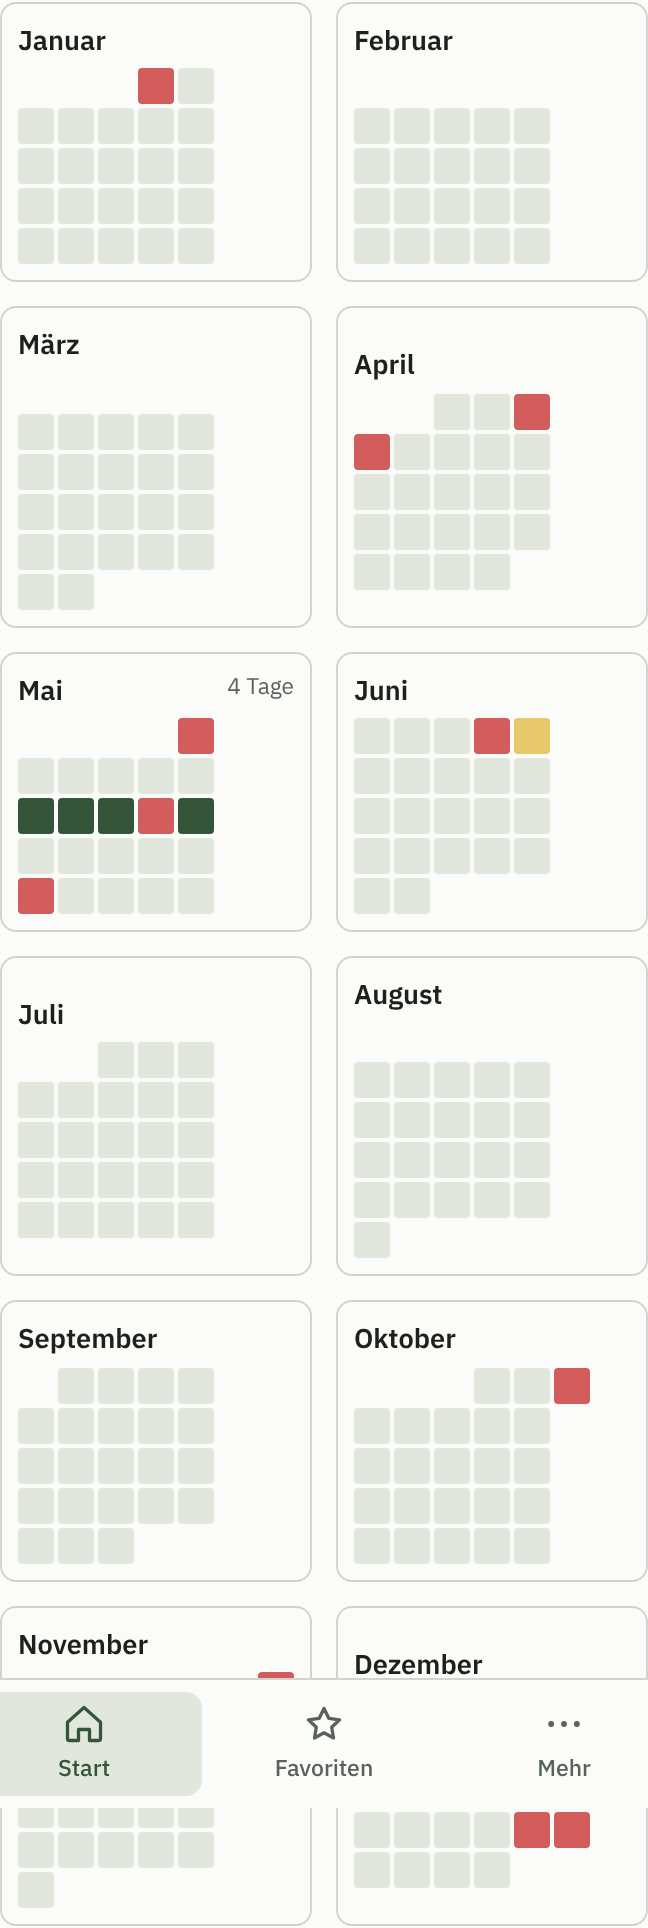
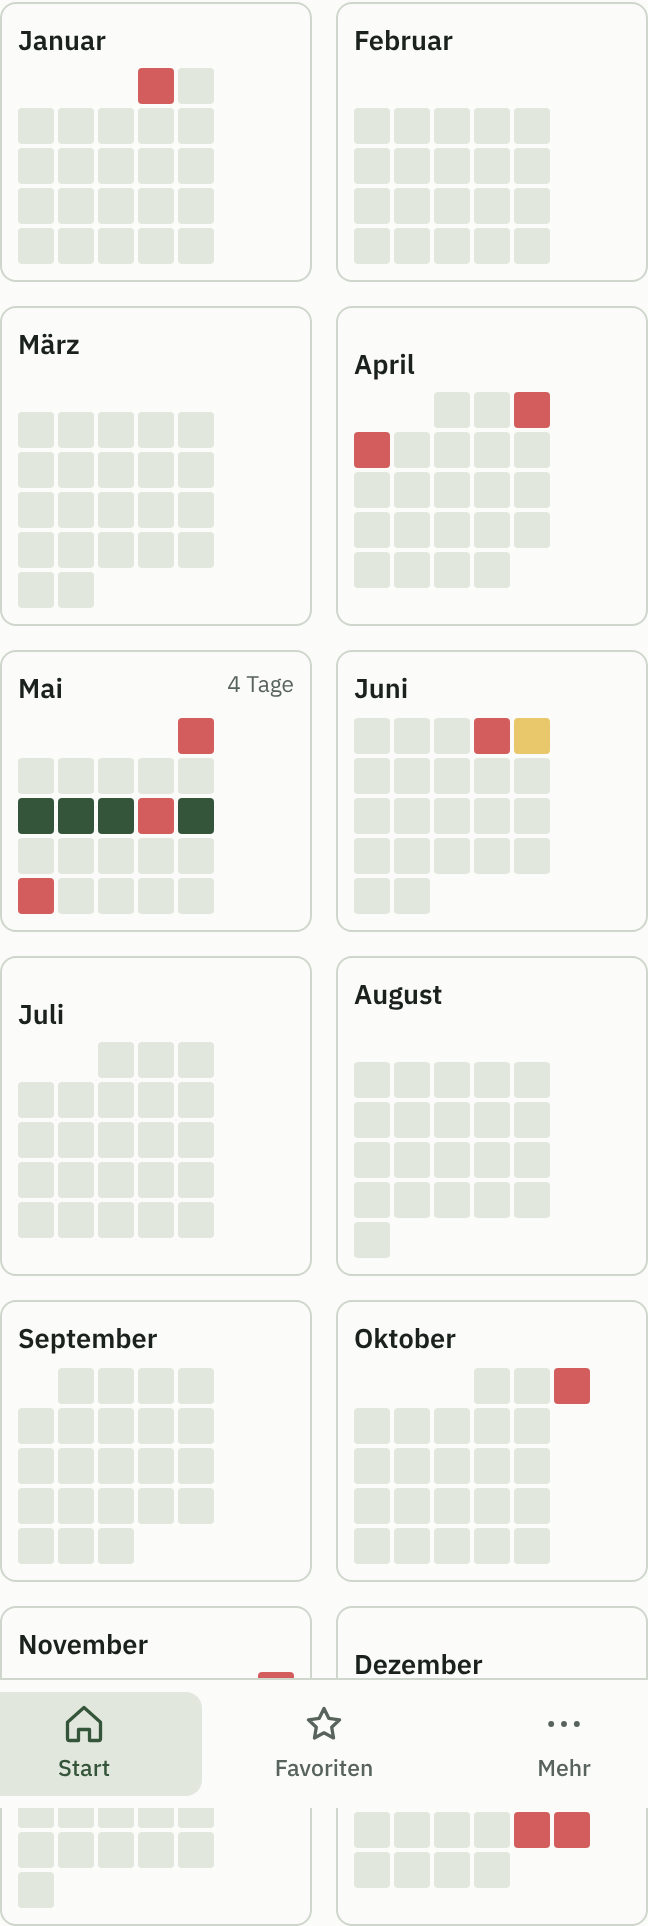
Geplante Einträge im Urlaubsplaner einheitlich gestrichelt
Genehmigt gefüllt, geplant mit hellem Grund und gestrichelter Linie in
der Farbe der Art (Erholungsurlaub, Dienstzeitausgleich, Sonderurlaub);
Legende und Jahresübersicht angepasst.

Claude-Session: https://claude.ai/code/session_01L3rDME9Ei4V6agYa5H5wY1

diff --git a/index.html b/index.html
@@ -343,19 +343,21 @@
   .u-tag.we { color: var(--muted); background: transparent; }
   .u-tag.ft::after { content: ""; position: absolute; left: 50%; bottom: 5px; width: 6px; height: 6px; margin-left: -3px; border-radius: 50%; background: var(--rot); box-shadow: 0 0 0 1.5px var(--surface); }
   .u-tag.heute { border-color: var(--fg); }
+  /* Genehmigt: gefüllt in der Farbe der Art. Geplant: immer heller Grund mit gestrichelter Linie in der Farbe der Art. */
   .u-tag.art-urlaub.genehmigt { background: var(--accent); color: var(--accent-ink); }
-  .u-tag.art-urlaub.geplant { background: var(--soft); border: 2px dashed var(--accent); }
-  .u-tag.art-dza { background: var(--warn-bg); color: var(--warn-fg); border-color: var(--warn-line); }
-  .u-tag.art-dza.geplant { border-style: dashed; border-width: 2px; }
-  .u-tag.art-sonder { background: var(--fg); color: var(--bg); }
-  .u-tag.art-sonder.geplant { opacity: .65; }
+  .u-tag.art-dza.genehmigt { background: var(--warn-bg); color: var(--warn-fg); border-color: var(--warn-line); }
+  .u-tag.art-sonder.genehmigt { background: var(--fg); color: var(--bg); }
+  .u-tag.geplant { background: var(--soft); border: 2px dashed; }
+  .u-tag.art-urlaub.geplant { border-color: var(--accent); }
+  .u-tag.art-dza.geplant { border-color: var(--warn-fg); }
+  .u-tag.art-sonder.geplant { border-color: var(--fg); }
   .u-tag.auswahl { outline: 3px solid var(--accent); outline-offset: 1px; }
   .u-legende { display: flex; flex-wrap: wrap; gap: 6px 14px; font-size: .82rem; color: var(--muted); }
   .u-legende span::before { content: ""; display: inline-block; width: 14px; height: 14px; border-radius: 4px; vertical-align: -2px; margin-right: 6px; border: 1px solid var(--line); }
   .u-legende .l-ug::before { background: var(--accent); border-color: var(--accent); }
-  .u-legende .l-up::before { background: var(--soft); border: 2px dashed var(--accent); }
   .u-legende .l-dza::before { background: var(--warn-bg); border-color: var(--warn-line); }
   .u-legende .l-so::before { background: var(--fg); border-color: var(--fg); }
+  .u-legende .l-gepl::before { background: var(--soft); border: 2px dashed var(--muted); }
   .u-legende .l-ft::before { width: 8px; height: 8px; border-radius: 50%; border: 0; background: var(--rot); vertical-align: 1px; margin-left: 3px; margin-right: 9px; }
   .u-jahr { display: grid; grid-template-columns: repeat(auto-fill, minmax(150px, 1fr)); gap: 12px; }
   .u-mini { border: 1px solid var(--line); border-radius: 8px; padding: 8px; background: var(--surface); color: var(--fg); font: inherit; text-align: left; cursor: pointer; }
@@ -366,10 +368,13 @@
   .u-mini .g i.x { visibility: hidden; }
   .u-mini .g i.we { background: transparent; }
   .u-mini .g i.ft { background: var(--rot); opacity: .75; }
-  .u-mini .g i.art-urlaub { background: var(--accent); opacity: 1; }
-  .u-mini .g i.art-urlaub.geplant { opacity: .5; }
+  .u-mini .g i.art-urlaub { background: var(--accent); }
   .u-mini .g i.art-dza { background: var(--warn-line); }
   .u-mini .g i.art-sonder { background: var(--fg); }
+  .u-mini .g i.geplant { background: var(--soft); box-shadow: inset 0 0 0 1.5px var(--muted); }
+  .u-mini .g i.art-urlaub.geplant { box-shadow: inset 0 0 0 1.5px var(--accent); }
+  .u-mini .g i.art-dza.geplant { box-shadow: inset 0 0 0 1.5px var(--warn-fg); }
+  .u-mini .g i.art-sonder.geplant { box-shadow: inset 0 0 0 1.5px var(--fg); }
   .u-meldung { font-size: .9rem; }
   .u-meldung.fehler { color: var(--warn-fg); background: var(--warn-bg); border: 1px solid var(--warn-line); border-radius: 8px; padding: 8px 12px; }
   .u-eintrag-akt { display: flex; gap: 6px; align-items: center; padding-right: 8px; }
@@ -715,7 +720,8 @@
         <button type="button" id="u-monat-vor" aria-label="Nächster Monat">›</button>
       </div>
       <div class="u-kal" id="u-kal" role="grid"></div>
-      <div class="u-legende"><span class="l-ug">Urlaub genehmigt</span><span class="l-up">Urlaub geplant</span><span class="l-dza">Dienstzeitausgleich</span><span class="l-so">Sonderurlaub</span><span class="l-ft">Feiertag</span></div>
+      <div class="u-legende"><span class="l-ug">Erholungsurlaub</span><span class="l-dza">Dienstzeitausgleich</span><span class="l-so">Sonderurlaub</span><span class="l-gepl">Geplant (gestrichelt)</span><span class="l-ft">Feiertag</span></div>
+      <p class="hint" style="margin-top:0">Gefüllt heißt genehmigt, gestrichelt heißt geplant, jeweils in der Farbe der Art.</p>
       <p class="hint" id="u-feiertage-monat"></p>
     </section>
 
